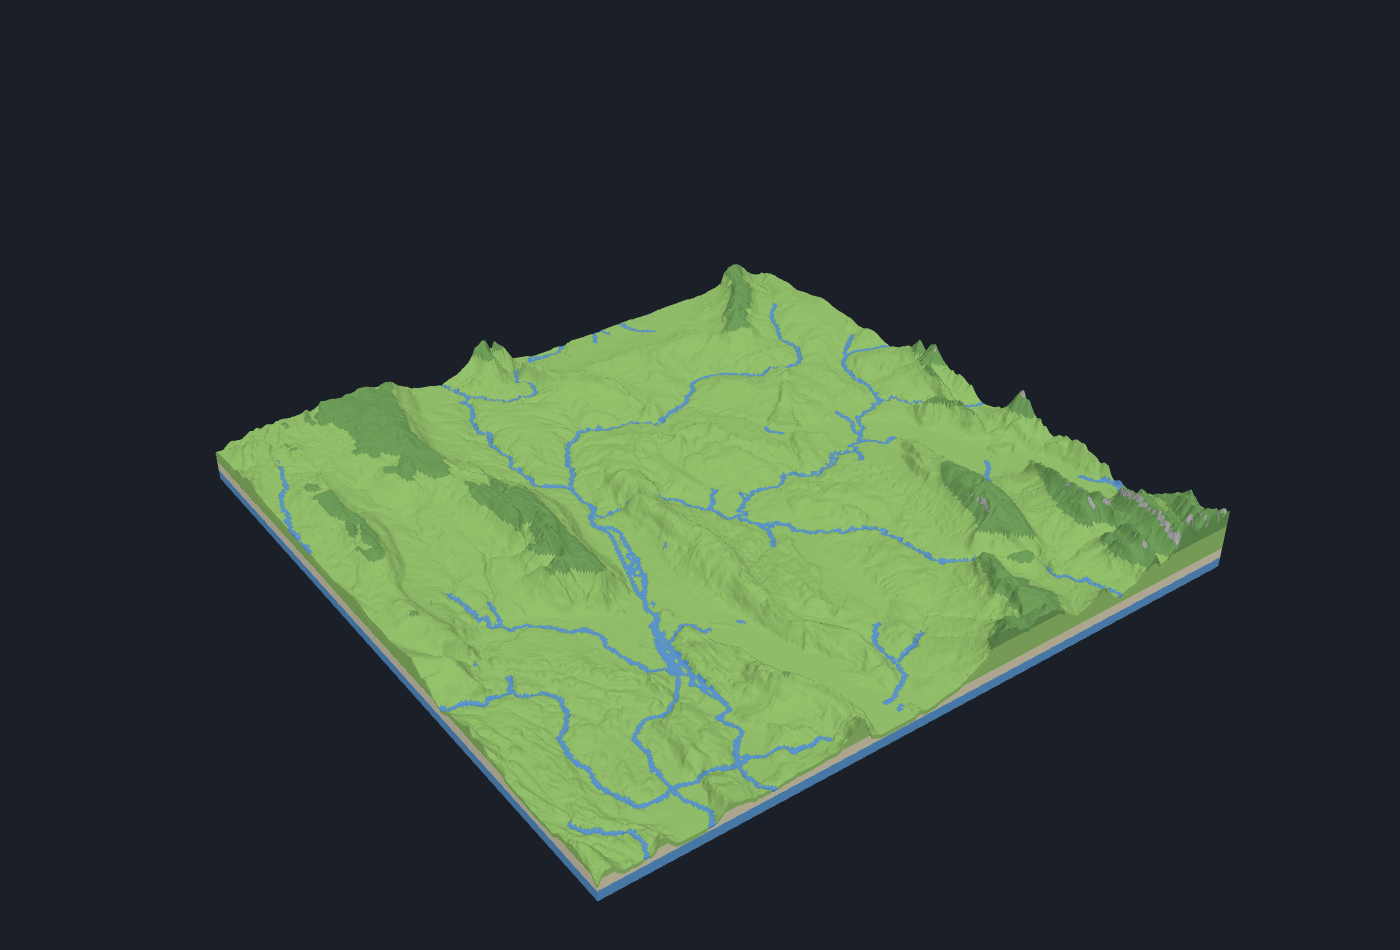
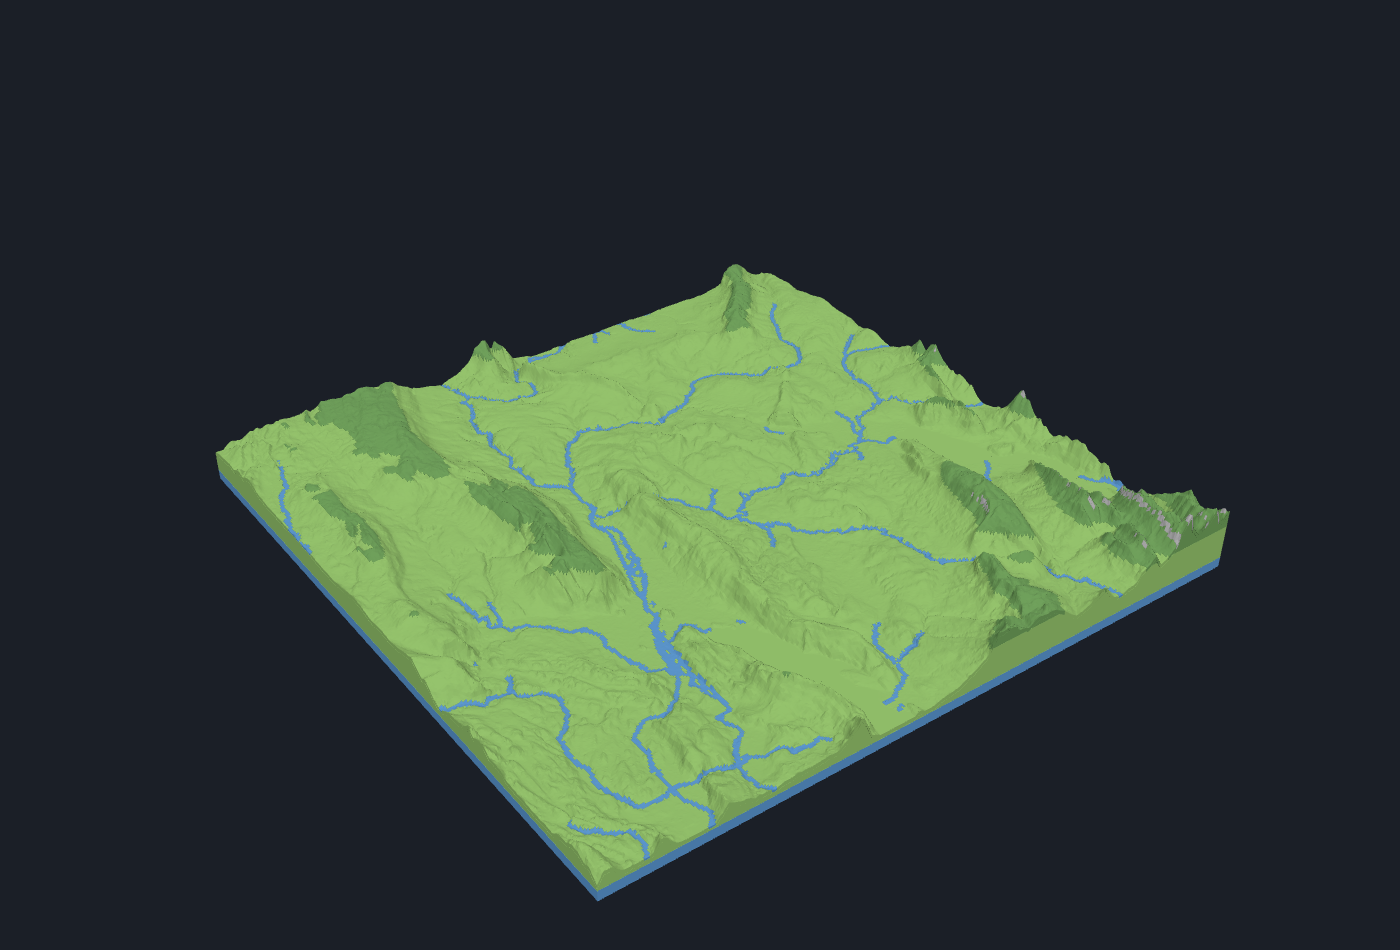
Drop the shore band from the Geneva preset
At 1:250,000 the shore was a 1-2 mm rim around Lake Geneva. Removing it
cuts manual filament swaps on the 6-tile set from 9 to 3 (one lowland ->
snow swap on each snowline tile) and automatic colour changes from 950 to
894. Liverpool keeps its shore band (tidal flats at 1:50,000).

Re-rendered the Geneva README images and recorded the decision and the
measured colour-change costs of rivers in CLAUDE.md.

Claude-Session: https://claude.ai/code/session_01KrkqKCWAfwgnKej2vVSrKb

diff --git a/README.md b/README.md
@@ -10,7 +10,7 @@ produces G-code. This whole thing was built by Claude Fable while I slept.
 ![Geneva to Mont Blanc, six 200 mm tiles assembled](docs/images/geneva_assembly.png)
 
 *Lake Geneva to the Mont Blanc massif: 3 × 2 tiles at 1:250,000, 2.5× height
-exaggeration, six colours (water, shore, two vegetation tiers, rock, snow).*
+exaggeration, five colours (water, two vegetation tiers, rock, snow).*
 
 ## What it does
 
@@ -54,10 +54,12 @@ use and motorway/trunk/primary roads in dark grey):
 
 ### Geneva to Mont Blanc, 1:250,000, 3 × 2 tiles
 
-Six colours on four slots: the preset uses the manual-swap strategy, so the
-tiles that reach the snowline pause once when the shore colour has finished
-(shore → rock) and once more when lowland has finished (lowland → snow). The
-lake surface is read from SRTM's flattened water and sits at 370 m.
+Five colours on four slots: the preset uses the manual-swap strategy, so the
+three tiles that reach the snowline pause once, at about 28.5 mm, where
+lowland green has finished and snow starts. The other three tiles need no
+manual swap. There is no shore band here: at 1:250,000 it was only a 1 to 2 mm
+rim around the lake, and dropping it removed six of the nine manual swaps.
+The lake surface is read from SRTM's flattened water and sits at 370 m.
 
 | tile_x0_y1 | tile_x1_y1 | tile_x2_y1 |
 |---|---|---|
@@ -113,13 +115,11 @@ credits for every tile. The Mont Blanc tile of the Geneva preset:
 ```
 --- tile_x1_y0 (height 49.8 mm) ---
   slot 1: water+base               #1f5fbf  z    0.0 -   23.5 mm
-  slot 2: sand                     #d9c58c  z    3.0 -    6.0 mm
-  slot 3: lowland                  #5aa62c  z    4.6 -   15.2 mm
-  slot 4: upland                   #2f6b1e  z    9.3 -   22.9 mm
-  slot 2: rock                     #8b8b8b  z   13.0 -   33.1 mm
-  slot 3: snow                     #f4f4f4  z   28.6 -   49.8 mm
-  MANUAL SWAP at z=13.0 mm: slot 2 #d9c58c -> #8b8b8b (sand -> rock)
-  MANUAL SWAP at z=28.6 mm: slot 3 #5aa62c -> #f4f4f4 (lowland -> snow)
+  slot 2: lowland                  #5aa62c  z    3.0 -   15.2 mm
+  slot 3: upland                   #2f6b1e  z    9.3 -   22.9 mm
+  slot 4: rock                     #8b8b8b  z   13.0 -   33.1 mm
+  slot 2: snow                     #f4f4f4  z   28.6 -   49.8 mm
+  MANUAL SWAP at z=28.6 mm: slot 2 #5aa62c -> #f4f4f4 (lowland -> snow)
 ```
 
 ## Slicing (OrcaSlicer / Elegoo Slicer)

diff --git a/CLAUDE.md b/CLAUDE.md
@@ -195,8 +195,20 @@ Decisions made while implementing (these refine the sections above):
   more colours than slots, `overflow: "merge"` merges the adjacent pair with
   the lowest (ΔE·√min-area) score, keeping the larger band's colour;
   `overflow: "swap"` keeps all bands and plans manual swaps where a finished
-  colour frees a slot (Geneva preset: 6 colours, 2 swaps on the Mont Blanc
-  tile, at 13.0 mm and 28.6 mm).  Slots are only reused when all 4 are taken.
+  colour frees a slot (Geneva preset: 5 colours, one lowland → snow swap at
+  ~28.5 mm on each of the three snowline tiles).  Slots are only reused when
+  all 4 are taken.
+- **Geneva has no shore band (user decision 2026-09-28); Liverpool keeps it.**
+  At 1:250,000 the shore was a 1–2 mm rim around the lake.  Measured on the
+  6-tile set: manual swaps 9 → 3, automatic per-layer colour changes 950 → 894
+  with rivers (530 → 472 lakes only).  At Liverpool's 1:50,000 the shore band
+  shows real tidal flats and costs no swaps (4 colours).
+- **Colour-change costs (measured 2026-09-28, 0.2 mm layers, Σ(colours−1)
+  per layer):** rivers roughly double automatic colour changes versus lakes
+  only (Geneva 530 → 950, Liverpool 129 → 282) because river blue climbs the
+  valleys and appears on most layers, whereas lake blue is confined to the
+  bottom layers.  Rivers add no manual swaps where the region already has a
+  lake or sea.
 - **No keying (2026-09-18):** the user glues tiles, so the base plate is a
   plain square and the earlier tab-and-slot keying was removed.
   `shrinkage_pct` scales each tile's XY about its centre so the cooled part
